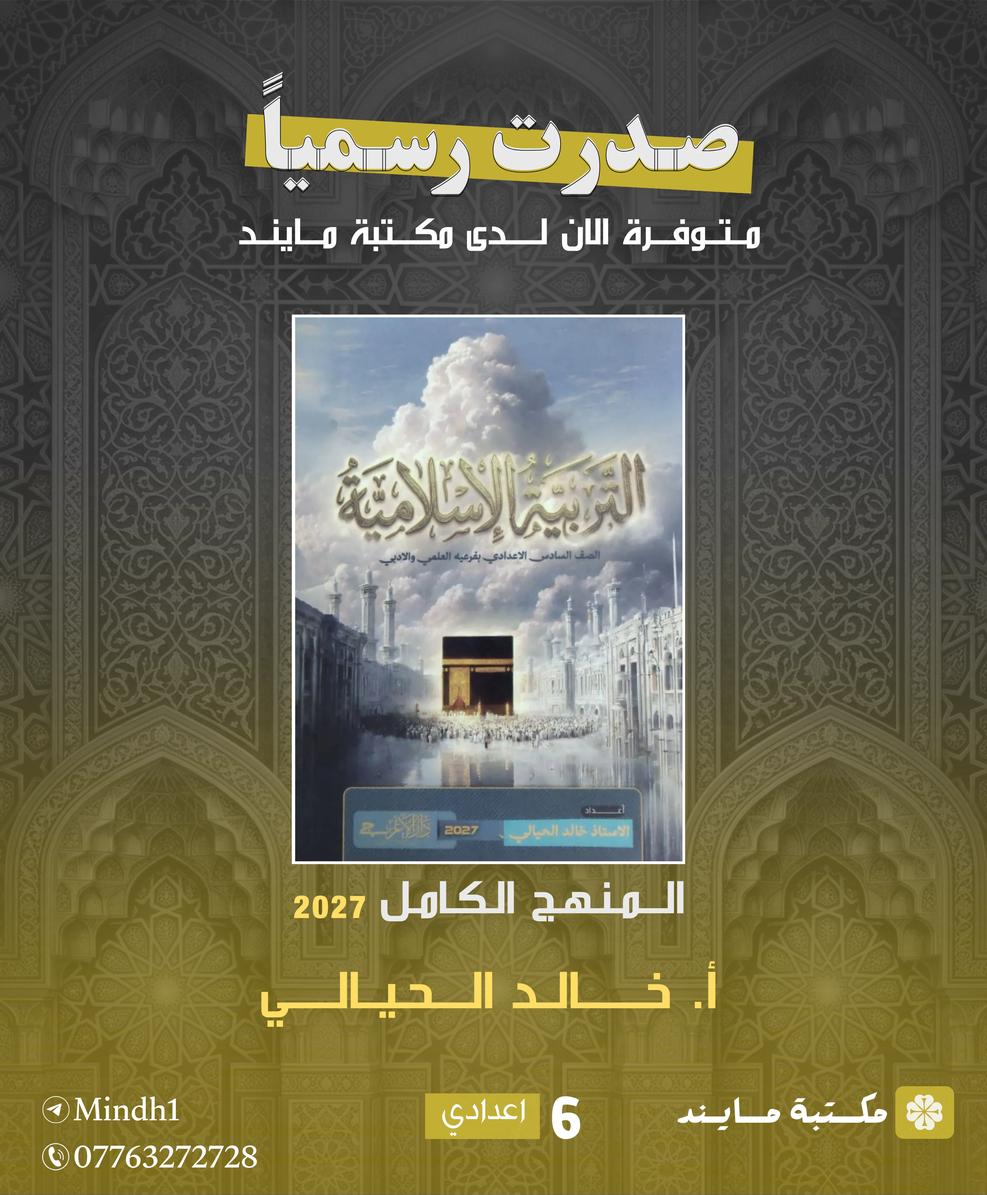
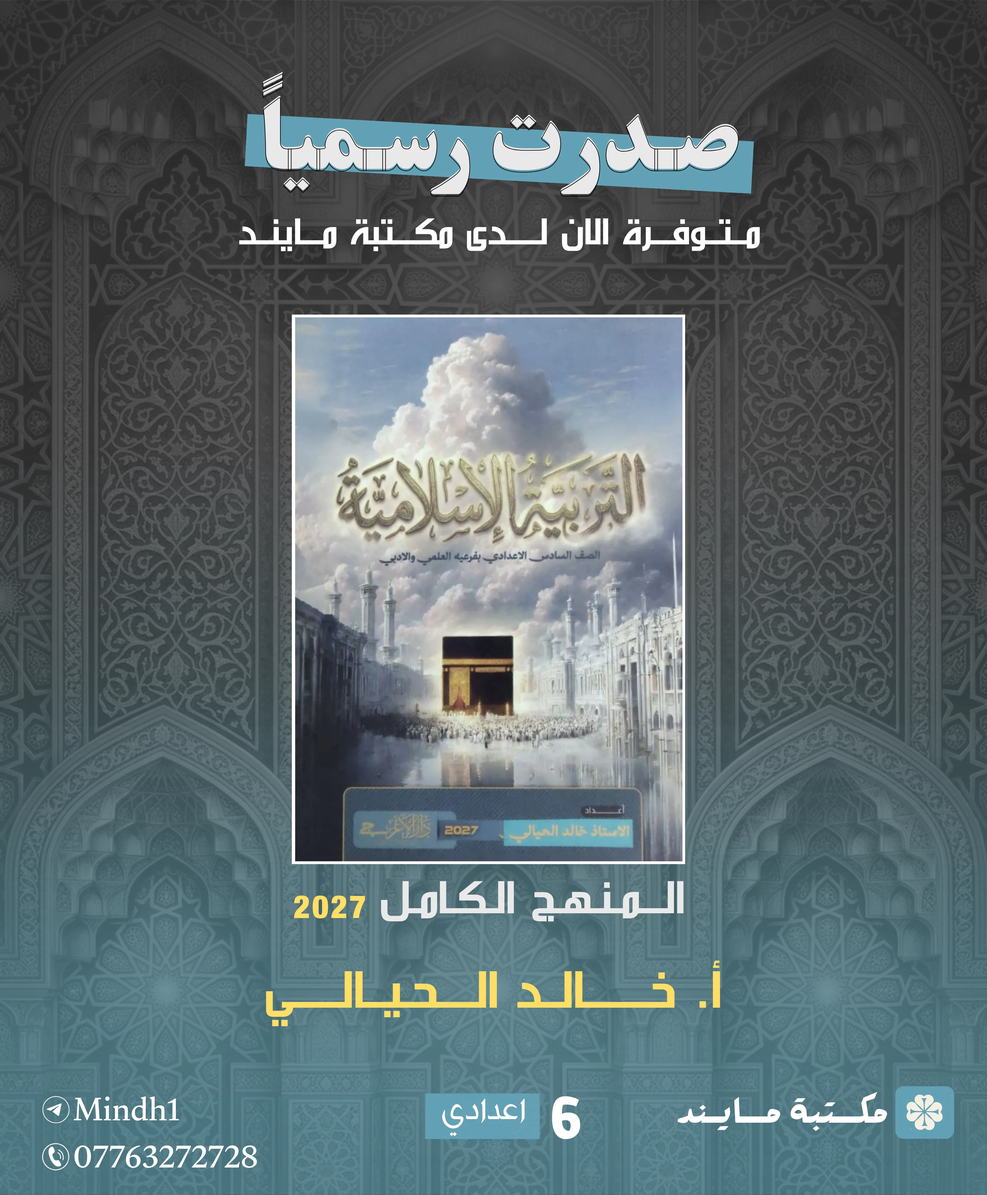
Add files via upload

diff --git a/index.html b/index.html
@@ -16971,6 +16971,68 @@
 
                          </div>   <!-- نهاية قسم ملازم حسين عبد الحسين اللامي -->
 
+                         <div id="ali-al-gorabi" class="teacher-group">   <!-- قسم ملازم علي الغرابي -->
+               
+                <div class="book-card">   <!-- 1 يمثل الحاوية الكاملة للبطاقة الخاصة للملزمة الواحدة -->
+
+                     <div class="image-wrapper">   <!-- دف يحتوي على صورة -->
+
+                        <img src="alialgorabi_bound_sads_mnhg_1.webp" class="mlz" alt="image" loading="lazy">
+
+                     </div>   <!-- نهاية الدف الذي يحتوي على صولاة الملزمة -->
+
+                     <div class="card-details">   <!-- دف يحتوي على معلومات الملزمة -->
+
+                       <span class="badge"> السادس الأعدادي </span>   <!-- الصف -->
+
+                       <h3 class="book-name"> ملزمة اللغة الانكليزية - الجزء الاول </h3>   <!-- نوع الملزمة -->
+
+                           <!-- يحتوي على معلومات الملزمة مع شكل الايقونة -->      <p class="mlz-info">
+                            <svg  class="svg-img-info"  width="18" height="18" viewBox="0 0 24 24" fill="none" stroke="#7eb67d" stroke-width="2" stroke-                                                                      linecap="round" stroke-linejoin="round">
+                            <rect x="3" y="4" width="18" height="18" rx="2" ry="2"></rect>
+                            <line x1="16" y1="2" x2="16" y2="6"></line>
+                            <line x1="8" y1="2" x2="8" y2="6"></line>
+                            <line x1="3" y1="10" x2="21" y2="10"></line>
+                            </svg> 
+                            دفعة 2027   </p>
+
+                         <!-- يحتوي على معلومات الملزمة مع شكل الايقونة -->      <p class="mlz-info"> <svg  class="svg-img-info"  width="20" height="20" viewBox="0 0 24 24" fill="none" stroke="#7eb67d" stroke-width="2" stroke-                                                  linecap="round" stroke-linejoin="round">
+                             <polygon points="12 2 2 7 12 12 22 7 12 2"></polygon>
+                             <polyline points="2 17 12 22 22 17"></polyline>
+                             <polyline points="2 12 12 17 22 12"></polyline>
+                             </svg>
+                               يونت 1 - 2 - 3 </p>
+
+
+                         <!-- يحتوي على معلومات الملزمة مع شكل الايقونة -->     <p class="mlz-info"> <svg  class="svg-img-info"  width="20" height="20" viewBox="0 0 24 24" fill="none" stroke="#7eb67d" stroke-width="2" stroke-                                                 linecap="round" stroke-linejoin="round">
+                           <path d="M4 19.5A2.5 2.5 0 0 1 6.5 17H20"></path>
+                           <path d="M6.5 2H20v20H6.5A2.5 2.5 0 0 1 4 19.5v-15A2.5 2.5 0 0 1 6.5 2z"></path>
+                           </svg>  242 صفحة - ورق عادي - سبايرول </p>  
+
+
+                       <div class="footer-card">   <!-- دف يحتوي على السعر و على زر اضافة للسلة -->
+
+                          <span class="price-text"> 12,000 <small> د.ع </small> </span>   <!-- السعر و العملة -->
+
+                          <svg  class="icon-in-btn-add" width="18" height="18" viewBox="0 0 24 24" fill="none" stroke="white"
+                               stroke-width="2" stroke-linecap="round" stroke-linejoin="round"> 
+                               <path d="M6 2L3 6v14a2 2 0 0 0 2 2h14a2 2 0 0 0 2-2V6l-3-4Z"></path>
+                               <line x1="3" y1="6" x2="21" y2="6"></line>
+                               <path d="M16 10a4 4 0 0 1-8 0"></path>
+                               </svg>   <!-- الايقونة --> 
+
+                          <button class="btn-order"
+
+                          onclick="addToCart('ملزمة انكليزي علي الغرابي - الجزء الاول', 9000)">اضف للسلة </button>   <!-- زر اضافة للسلة -->
+
+                       </div>   <!-- نهاية الدف الذي يحتوي على السعر و زر اضافة للسلة -->
+
+                     </div>   <!-- نهاية الدف الذي يحتوي على معلومات الملزمة -->
+
+                  </div>   <!-- نهاية الحاوية الكاملة للبطاقة الواحدة ( نهاية الكارد ) -->
+
+                         </div>   <!-- نهاية قسم ملازم علي الغرابي -->
+
           </div>   <!-- نهاية دف الاساتذة -->       
 
           <div class="modern-cart" onclick="openModal()">   <!-- السلة --> 

diff --git a/script.js b/script.js
@@ -653,6 +653,13 @@ else if (input.includes("علي السوداني")) {
               document.getElementById('meeeeeeeeeeeeeer').scrollIntoView({behavior: 'smooth'});
           }
 
+          else if (input.includes("علي الغرابي")) { 
+              resultsContainer.style.display = 'grid';
+              document.getElementById('ali-al-gorabi').style.display = 'contents';
+
+              document.getElementById('ali-al-gorabi').scrollIntoView({behavior: 'smooth'});
+          }
+
       else {
         alert("هذا الاستاذ غير متوفر"); // تنبيه في حال عدم مطابقة البحث
     }
@@ -991,7 +998,7 @@ const teachersList = ["حيدر وليد","احمد النعيمي","محمد ا
               ,"ايات العاني","نسرين البياتي","هيام الراوي","زياد الراوي","ندى جاسم","ميس وليد","محمد زياد","هشام المعموري","حمزة الجابري","نورس الموسوي","علا الصراف","مضر الجبوري","احمد فوزي","احمد حسان","احمد الجاف"
          ,"قصي النداوي","دانيار الجاف","مازن الهلالي","عمار فاضل","ساجد العكيلي","سمر علي","خالد الحيالي","نيمار ابن الانبار","ابن بابل","علي رائد","اخلاص اكرم","وليد السبع","مؤيد سليم","علي صادق","علي الذهبي","عباس العامري"
          ,"لينا احسان","مرام العلاق","علاء السعداوي","عصام الشمري","محمد علي الكناني","يوسف الربيعي","زياد ماهر","محمد العنزي","حيدر ديوان","يوسف الجعفري","عبد الوهاب عبد الكريم","محمد الواثق","صباح الدليمي","كرم عصام"
-        ,"ابراهيم الصميدعي","حسين عبد الحسين اللامي"];
+        ,"ابراهيم الصميدعي","حسين عبد الحسين اللامي","علي الغرابي"];
 
 function showSuggestions() {
     let input = document.getElementById('userInput').value.trim();    
